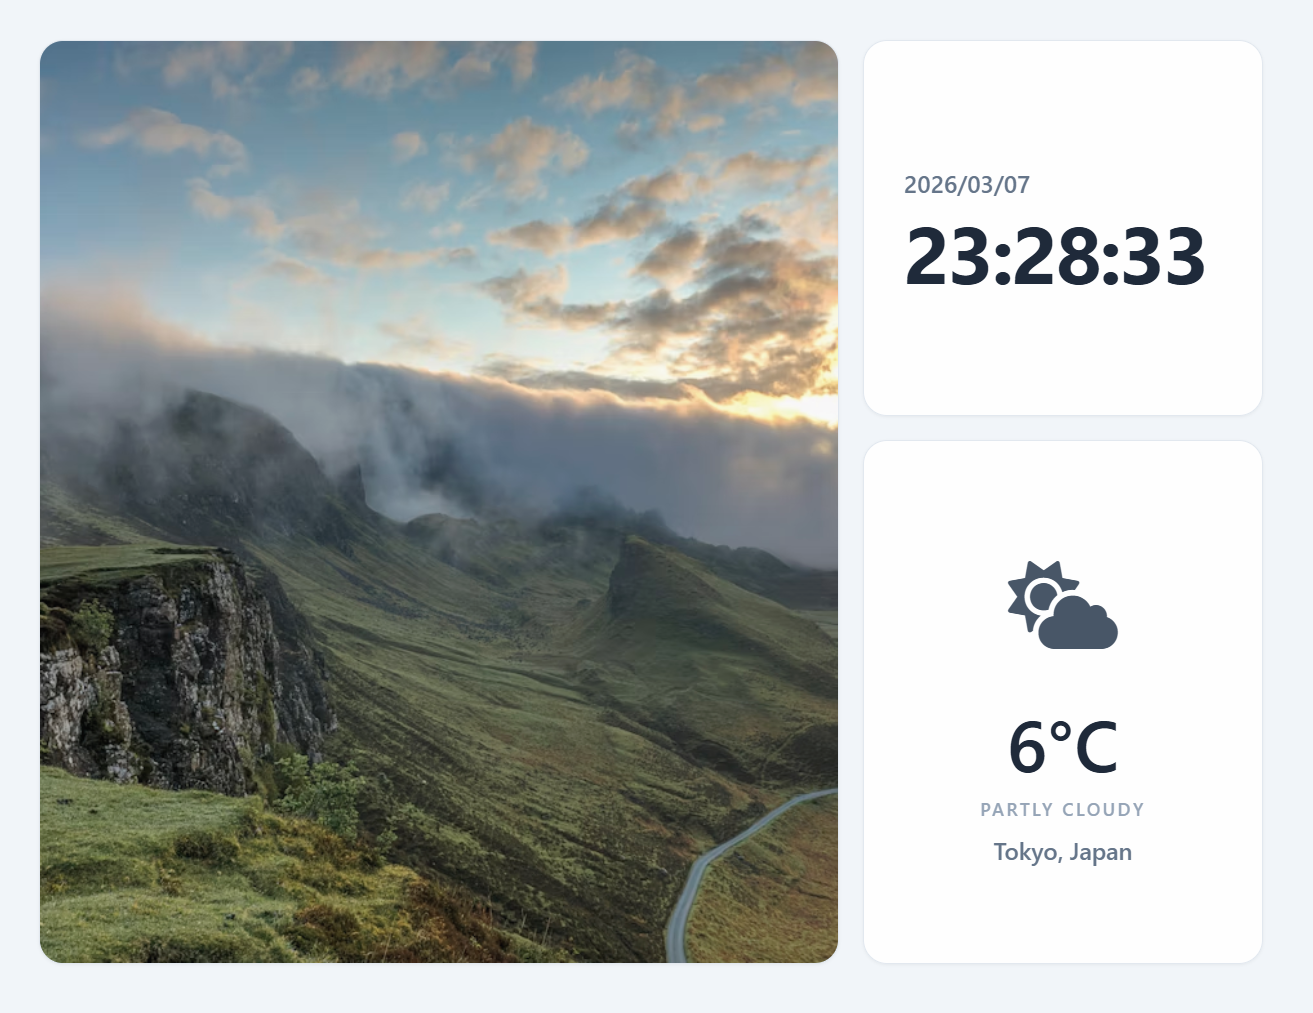
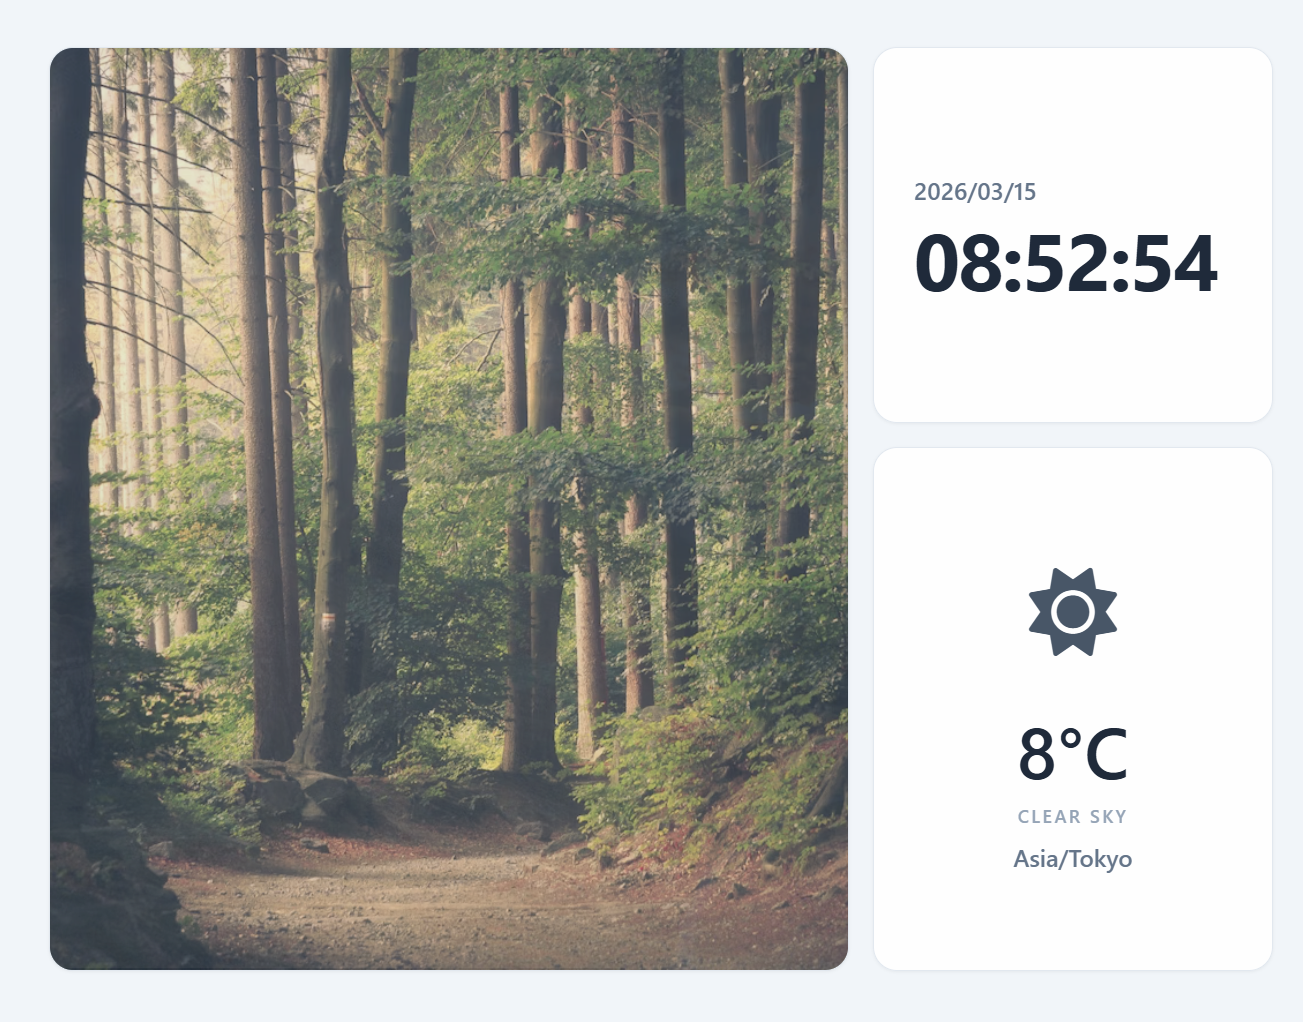
docs: ドキュメント更新 (#12)

diff --git a/docs/designExample.html b/docs/designExample.html
@@ -105,7 +105,7 @@
             color: #1e293b;
         }
 
-        .city-name {
+        .locale {
             font-size: 1.5rem;
             font-weight: 500;
             color: #64748b;
@@ -164,7 +164,7 @@
                 </div>
                 <div id="tempDisplay" class="temp-display">--°C</div>
                 <div id="weatherDesc" class="weather-desc">Syncing...</div>
-                <div id="cityName" class="city-name">Loading...</div>
+                <div id="locale" class="locale">Loading...</div>
             </div>
         </div>
     </div>
@@ -175,7 +175,7 @@
          */
         const APP_CONFIG = {
             location: {
-                name: "Tokyo, Japan",
+                locale: "Asia/Tokyo",
                 latitude: 35.6895,
                 longitude: 139.6917
             },
@@ -211,8 +211,8 @@
         }
 
         async function fetchWeather() {
-            const { latitude, longitude, name } = APP_CONFIG.location;
-            document.getElementById('cityName').textContent = name;
+            const { latitude, longitude, locale } = APP_CONFIG.location;
+            document.getElementById('locale').textContent = locale;
 
             try {
                 const response = await fetch(`https://api.open-meteo.com/v1/forecast?latitude=${latitude}&longitude=${longitude}&current_weather=true`);

diff --git a/docs/features.md b/docs/features.md
@@ -5,46 +5,103 @@
 日々の生活に役立つ情報を表示するダッシュボード機能を提供します。ダッシュボードは
 シックでシンプルなデザインを採用し、必要な情報を見やすく配置します。
 表示言語は英語とします。
-ダッシュボードの表示サイズはSXGA（1280x1024）を想定しています。
+ダッシュボードの表示サイズは SXGA（1280x1024）を前提とします。
 
 ![デザイン（スクリーンショット）](design.png)
 
-※ `design.png` は [designExample.html](designExample.html) のスクリーンショットです。
-レイアウトや表示要素の仕様は **HTML（designExample.html）を正** とします。
+`design.png` は [designExample.html](designExample.html) のスクリーンショットです。
+レイアウトや表示要素の正本は [designExample.html](designExample.html) とし、本ドキュメントはその内容を実装向けに文章化したものです。
+
+## 表示構成
+
+ダッシュボードは以下の 3 要素で構成します。
+
+- 左: 写真カード
+- 右上: 日時カード
+- 右下: 天気カード
+
+現状のコード実装と差分がある場合でも、本ドキュメントの内容を今後の表示仕様とします。
+
+## レイアウト仕様
+
+画面全体は 1280x1024 の固定サイズを前提にし、外周に 50px の余白を確保します。
+主要レイアウトは 2 カラム構成とし、左カラムを 800px、右カラムを 400px 相当とします。
+カラム間隔は 24px とします。
+
+- 左カラム: 写真カード 1 枚を全面表示する主領域
+- 右カラム: 上下 2 枚のカードを縦積みする情報領域
+- 右カラム内のカード間隔: 24px
+- 各カードの内側余白: 40px を基準とする
+- 各カードの角丸: 24px 相当とする
+
+実装では framebuffer 上の描画都合で数 px の調整は許容しますが、左右の領域比率、カードの上下構成、余白感は維持します。
 
 ## 表示内容
 
-ダッシュボードは以下の情報を表示します
+ダッシュボードは以下の情報を表示します。
 
-- 時刻（ローカルタイムゾーンで表示）
-- 天気情報（現在の気温、天気コードの簡易ラベル）
-- ローカルディレクトリに同期された画像（複数枚からランダム表示、定期更新）
+- 日付
+- 時刻
+- 天気情報
+- ローカルディレクトリに同期された画像
 
-各機能について後述します。
+各要素の必須表示項目は後述します。
 
-## 時刻
+## 日時カード
 
-ローカルタイムゾーンで現在の時刻を表示します。表示は `HH:MM:SS` の形式とします。時刻は1秒ごとに更新されます。
+日時カードは右上に配置します。表示内容は以下を必須とします。
 
-※日付（YYYY/MM/DD）の表示は現状未対応です。
+- 上段に日付を 1 行で表示する
+- 中央に時刻を大きく表示する
 
-## 天気情報
+日付表示の仕様:
 
-起動オプションで指定した緯度経度の現在の天気を表示します。表示内容は以下の通りです。
+- 形式は `YYYY/MM/DD`
+- タイムゾーンは設定されたローカルタイムゾーンを使用する
+- 時刻より小さい文字サイズで表示する
+
+時刻表示の仕様:
+
+- 形式は `HH:MM:SS`
+- 1 秒ごとに更新する
+- 画面内で最も強い視認性を持つ表示要素として扱う
+
+## 天気カード
+
+天気カードは右下に配置します。表示内容は以下を必須とします。
+
+- 天気アイコン
 - 現在の気温（摂氏）
-- 天気コードの簡易ラベル（例: CLEAR/CLOUDS/RAIN など）
+- 状態文言
+- ロケーション文字列
 
-天気情報は一定間隔で更新されます（デフォルト10分）。
-天気情報の取得には Open-Meteo API を使用します。
-取得に失敗した場合でも、最後に取得できたキャッシュがあればそれを表示します。
+表示仕様:
 
-## 画像（Google Driveからの同期を想定）
+- アイコンはカード上部に配置する
+- 気温はカード内で大きく表示する
+- 状態文言は英語の短い語句を想定し、補助情報として表示する
+- ロケーション文字列は最下段に表示する
 
-Google Drive 上の画像は、アプリが直接取得しません。
-`rclone` 等で **ローカルディレクトリへ同期した画像** を、ダッシュボードが参照して表示します。
+データ取得の仕様:
 
-- 画像は複数枚ある場合ランダムに切り替えます
-- 画像の切り替え間隔・ディレクトリの再スキャン間隔は設定で変更できます
+- 天気情報は一定間隔で更新する（デフォルト 10 分）
+- Open-Meteo API を使用する
+- 取得に失敗した場合でも、最後に取得できたキャッシュがあればそれを表示する
+
+## 写真カード
+
+写真カードは左側の主領域に配置します。表示内容と振る舞いは以下の通りです。
+
+- ローカルディレクトリに同期された画像を 1 枚表示する
+- 複数枚ある場合はランダムに切り替える
+- 切り替え時は主表示を阻害しない範囲で滑らかに見える遷移を想定する
+- カード下端には進行状況を示す細いインジケータを置ける
+
+画像ソースの前提:
+
+- アプリは Google Drive 等から直接取得しない
+- `rclone` 等でローカルディレクトリへ同期した画像を参照する
+- 画像切り替え間隔と再スキャン間隔は設定で変更できる
 
 運用例は [run-on-raspberrypi.md](run-on-raspberrypi.md) を参照してください。
 

diff --git a/docs/implementation-plan.md b/docs/implementation-plan.md
@@ -51,7 +51,7 @@ JSON項目（案）:
 - `-config` を追加し、優先順位を「既定値 < JSON < フラグ」に統一済み
 - `features.md` と `run-on-raspberrypi.md` に設定例を反映済み
 
-### P0.5: デザイン案に合わせた「仕様の明文化」（ドキュメント寄せ）
+### P0.5: デザイン案に合わせた「仕様の明文化」（ドキュメント寄せ）[完了]
 
 目的:
 - 添付のデザイン案（写真 + 右側に「日時カード」「天気カード」）を、実装に落とし込める粒度で仕様化する
@@ -78,6 +78,12 @@ JSON項目（案）:
 補足:
 - 現状の描画は `internal/app/app.go` でベタ描きのため、最初は「それっぽい配置」を作ってから微調整する前提でよい
 - ここで決めた必須要素が P1/P2 のスコープになります
+
+完了メモ:
+- `features.md` をデザイン案準拠の表示仕様に更新済み
+- 正本を `designExample.html` と明記し、`design.png` は参考画像として位置付け済み
+- レイアウトの基準値として「1280x1024 / 外周余白 50px / 左 800px / 右 400px / 間隔 24px / カード内余白 40px」を文章化済み
+- 必須表示項目を「日時カード: 日付 + 時刻」「天気カード: アイコン + 気温 + 状態文言 + ロケーション文字列」「写真カード: 主表示画像」に整理済み
 
 ### P1: 日付表示（YYYY/MM/DD）
 
